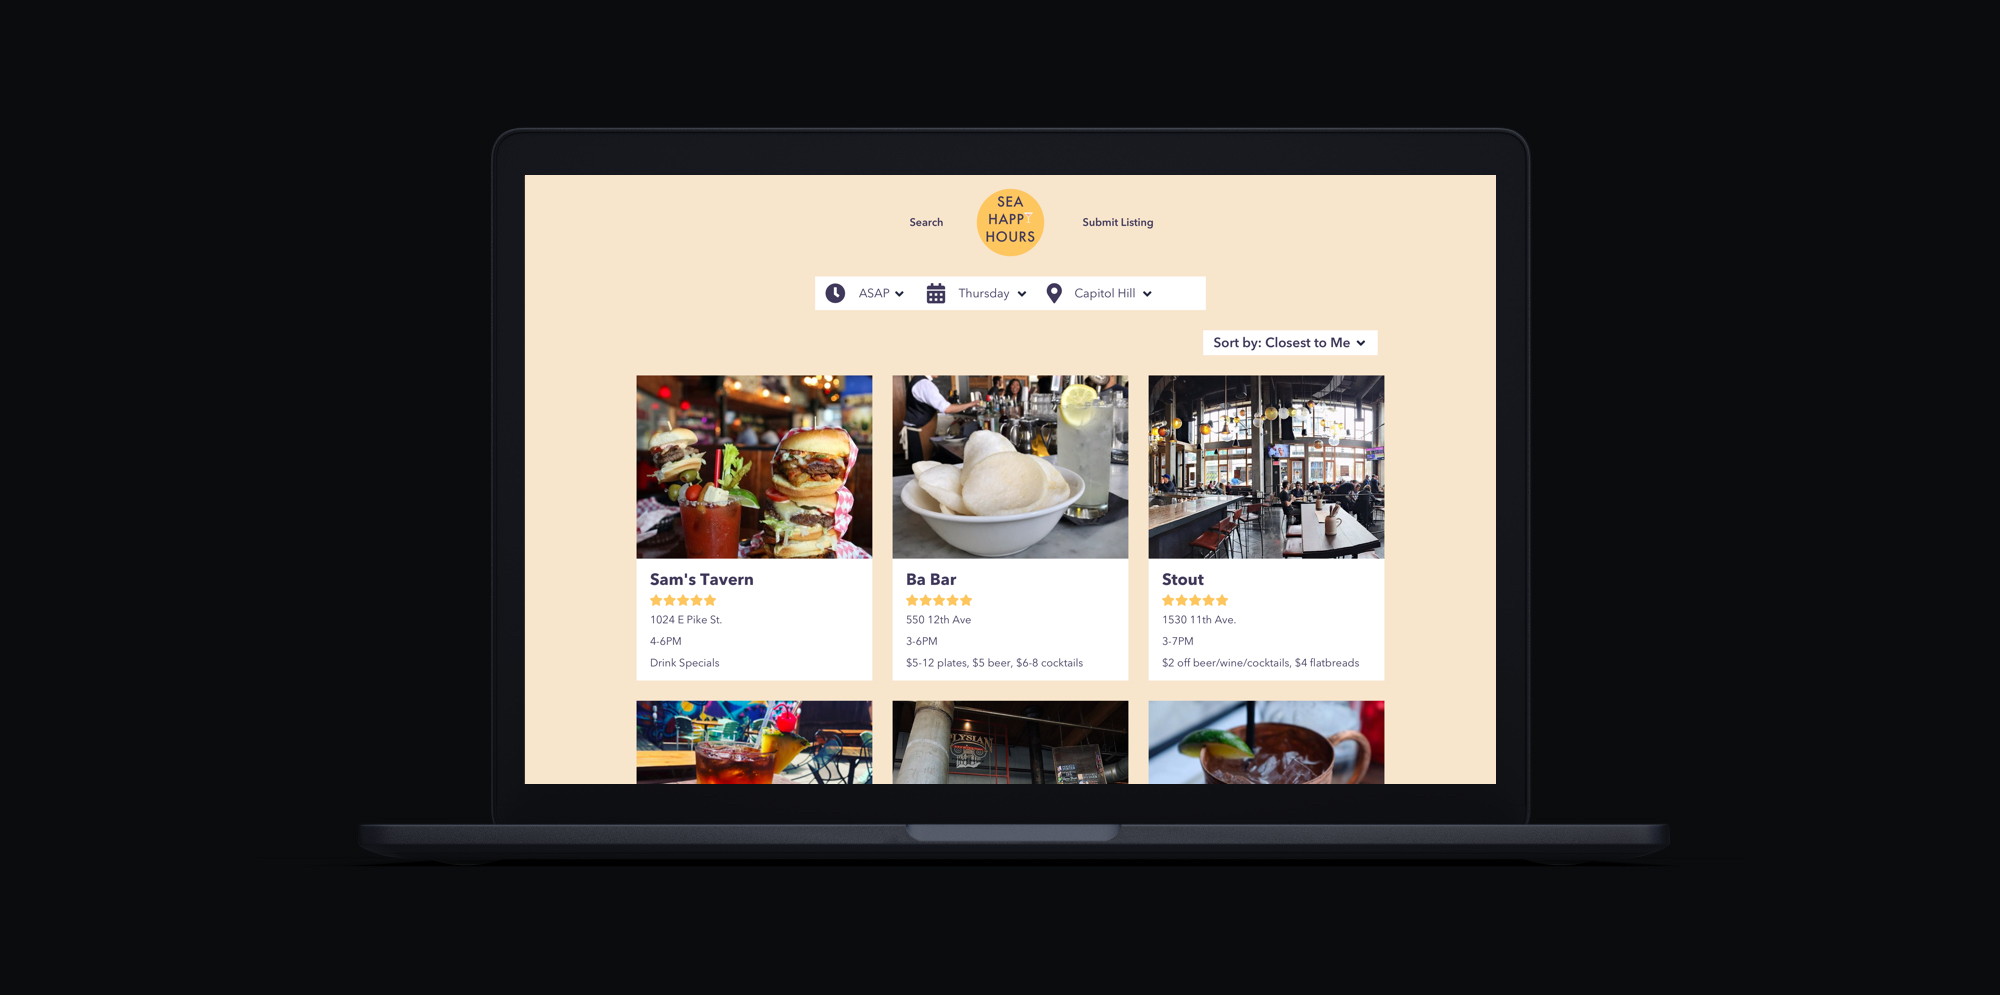
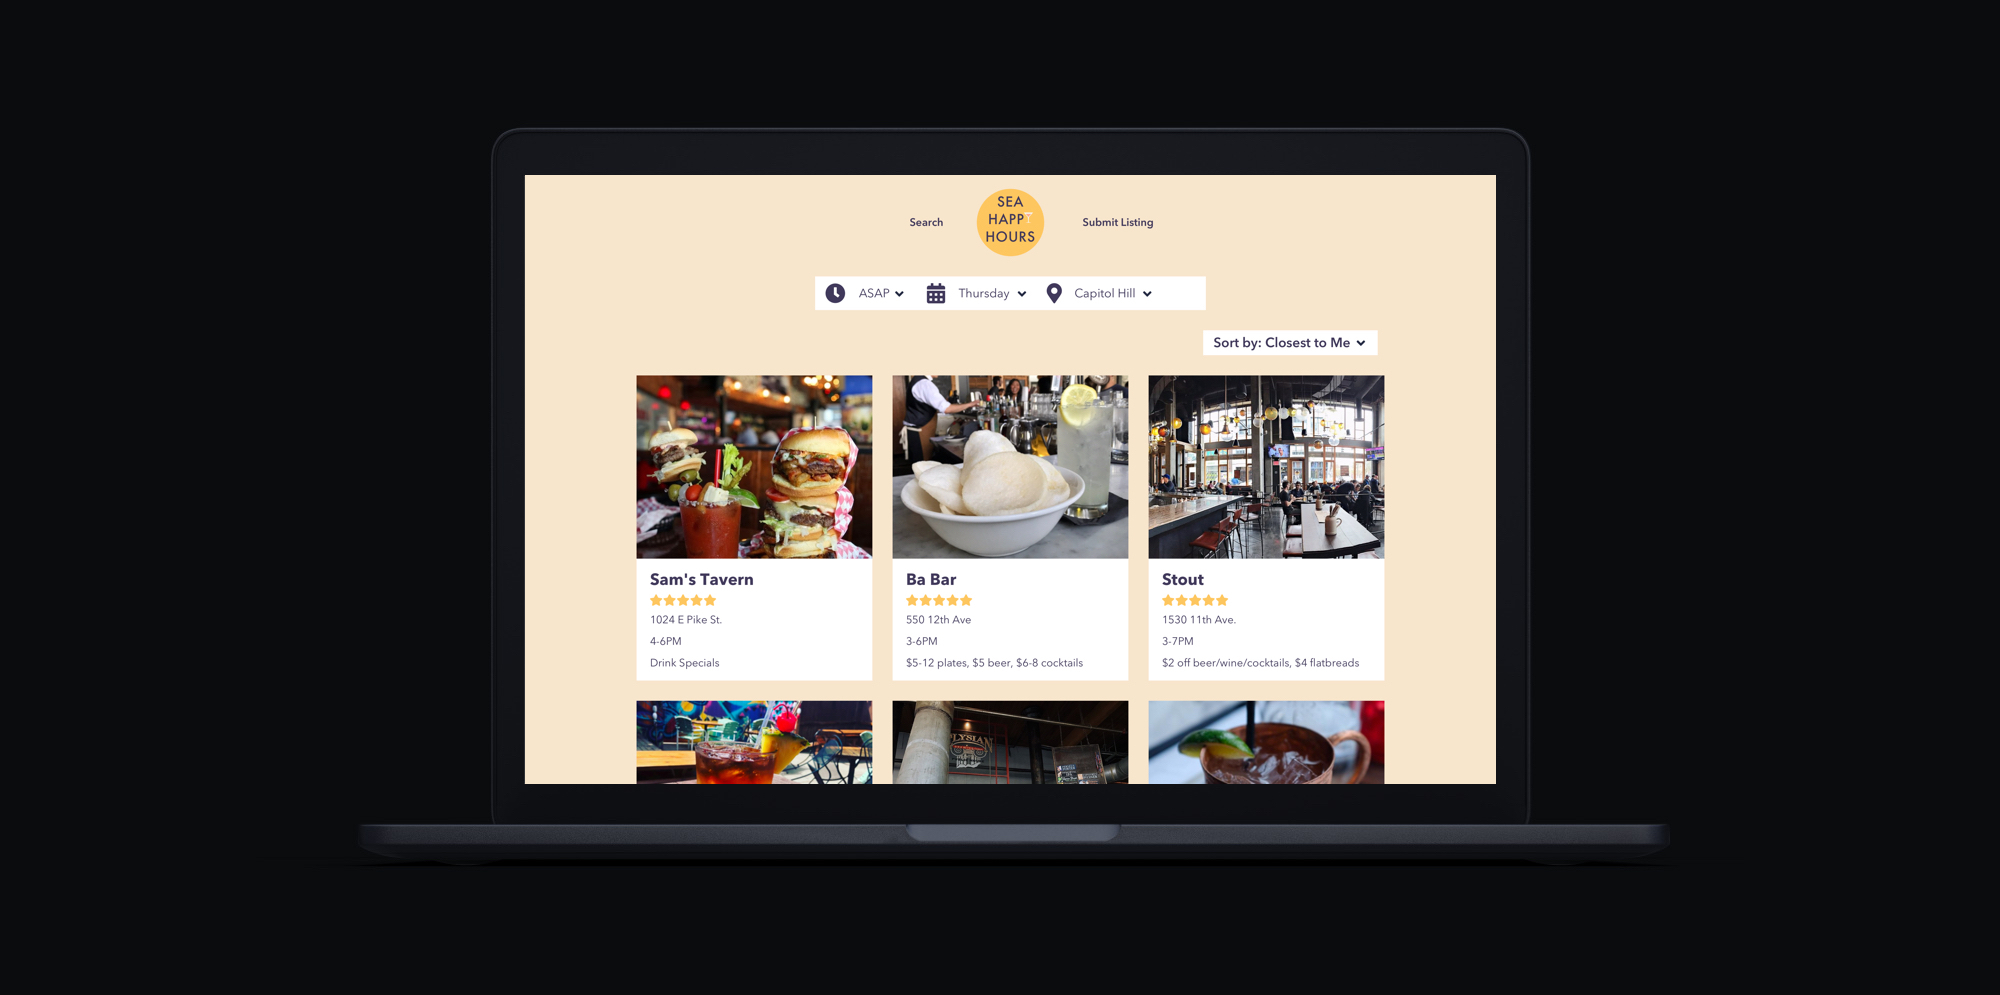
Add mobile designs to SHH

diff --git a/src/components/cue/Solution.js b/src/components/cue/Solution.js
@@ -9,6 +9,7 @@ import signInImage from '../../images/p4signin.jpg';
 import finalEventChatImage from '../../images/p4finaleventchatflow.jpg';
 import finalETAImage from '../../images/p4finaletaflow.jpg';
 import usabilityImage from '../../images/p4usabilityfindings.jpg';
+import deliverablesImage from '../../images/p4deliverables.jpg';
 
 const Solution = () => (
   <Section shade={3} title="Solution">
@@ -94,6 +95,22 @@ const Solution = () => (
         </li>
       </ul>
       <Image src={usabilityImage} alt="Usability" />
+    </SubSection>
+
+    <SubSection title="Redlines & Annotations">
+      <p>
+        After implementing the final changes from usability testing, I prepared
+        the final deliverables for the client. Since the developers on this
+        project were remote, it was extremely important to provide detailed
+        redlines and design annotations to implement the designs. The redlines
+        gave the developers exact specs to use for reusable components like
+        event cards. The detailed design annotations helped explain any
+        interactive elements of the screen.
+      </p>
+      <Image
+        src={deliverablesImage}
+        alt="Redline and Annotation Deliverables"
+      />
     </SubSection>
   </Section>
 );

diff --git a/src/components/seahappyhours/Solution.js b/src/components/seahappyhours/Solution.js
@@ -21,7 +21,25 @@ const Solution = () => (
 
     <hr />
 
-    <SubSection title="Final Designs">
+    <SubSection title="Mobile First">
+      <p>
+        From user and market research, designing Seattle Happy Hours to be
+        mobile first was paramount. When users are choosing places to go to
+        happy hours with their friends, it was clear that they need the ability
+        to find options while on the go. With the mobile design complete, the
+        components were then applied to larger responsive web designs.{' '}
+      </p>
+      <div className="text-center">
+        <Video
+          width="100%"
+          src="https://www.dropbox.com/s/njw8ysdfenwkuds/SHHMobile.mp4?raw=1"
+        />
+      </div>
+    </SubSection>
+
+    <hr />
+
+    <SubSection title="Responsive Design">
       <p>
         From low fidelity wireframes, I learned that I wanted to design a
         card-like format that would allow for pictures and text. Adding pictures

diff --git a/src/layouts/index.css b/src/layouts/index.css
@@ -8,7 +8,7 @@ body {
   background-color: #0d0c0c;
   padding-top: 56px;
   line-height: 1.58;
-  font-family: georgia, serif;
+  font-family: 'PT Serif', georgia, serif;
   letter-spacing: -0.003rem;
   color: rgba(255, 255, 255, 0.9);
   text-rendering: optimizeLegibility;
@@ -37,7 +37,7 @@ strong {
 }
 
 h1 {
-  font-family: Georgia, Times, 'Times New Roman', serif;
+  font-family: 'PT Serif', Georgia, Times, 'Times New Roman', serif;
   font-size: 3rem;
 }
 
@@ -66,7 +66,7 @@ h4 {
 }
 
 h5 {
-  font-family: Georgia, Times, 'Times New Roman', serif;
+  font-family: 'PT Serif', Georgia, Times, 'Times New Roman', serif;
   font-size: 0.8rem;
 }
 

diff --git a/src/layouts/index.js b/src/layouts/index.js
@@ -17,6 +17,10 @@ const Layout = ({ children, data }) => (
       ]}
     >
       <link key="icon" rel="icon" href={favicon} />
+      <link
+        href="https://fonts.googleapis.com/css?family=PT+Serif"
+        rel="stylesheet"
+      />
     </Helmet>
     <Navigation />
     <div>{children()}</div>

diff --git a/src/components/Navigation.css b/src/components/Navigation.css
@@ -13,7 +13,7 @@
 }
 
 .nav-logo {
-  height: 30px;
+  height: 40px;
   margin-bottom: 0;
 }
 
